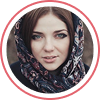
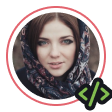
css on the intro, more html on the projects

diff --git a/index.html b/index.html
@@ -18,41 +18,79 @@
     <div id="info">
       <header>
         <img src="assets/images/user.png" alt="Foto de perfil">
-        <p>Hello World! Meu nome é Martina Santos e sou</p>
-        <h1>Desenvolvedora Fullstack</h1>
-        <p>Transformo necessidades em aplicações reais, evolventes e funcionais. Desenvolvo sistemas através da minha paixão pela tecnologia, contribuindo com soluções inovadoras e eficazes para desafios complexos.</p>
+        <p class="helo-info subtitle">Hello World! Meu nome é <span>Martina Santos</span> e sou</p>
+        <h1 class="title-lg">Desenvolvedora Fullstack</h1>
+        <p class="description-info text-sm">Transformo necessidades em aplicações reais, evolventes e funcionais. Desenvolvo sistemas através da minha paixão pela tecnologia, contribuindo com soluções inovadoras e eficazes para desafios complexos.</p>
       </header>
       <div id="skills">
         <div class="content-skills">
           <img src="assets/icons/github.svg" alt="Logo do GitHub">
-          <span>GitHub</span>
+          <span class="text-md">GitHub</span>
         </div>
         <div class="content-skills">
           <img src="assets/icons/html.svg" alt="Logo do HTML">
-          <span>HTML</span>
+          <span class="text-md">HTML</span>
         </div>
         <div class="content-skills">
           <img src="assets/icons/css.svg" alt="Logo do CSS">
-          <span>CSS</span>
+          <span class="text-md">CSS</span>
         </div>
         <div class="content-skills">
           <img src="assets/icons/javascript.svg" alt="Logo do JavaScript">
-          <span>JavaScript</span>
+          <span class="text-md">JavaScript</span>
         </div>
         <div class="content-skills">
           <img src="assets/icons/react.svg" alt="Logo do React">
-          <span>React</span>
+          <span class="text-md">React</span>
         </div>
         <div class="content-skills">
           <img src="assets/icons/node-js.svg" alt="Logo do Node.js">
-          <span>Node.js</span>
+          <span class="text-md">Node.js</span>
         </div>
       </div>
     </div>
-    <img src="assets/icons/caret-double-down.svg" alt="Duas setinhas apontando para baixo">
+    <img id="double-down" src="assets/icons/caret-double-down.svg" alt="Duas setinhas apontando para baixo">
   </section>
 
-  <section id="projects-box"></section>
+  <section id="projects-box">
+    <div id="text-projects">
+      <p class="subtitle">Meu trabalho</p>
+      <h2 class="title-md">Veja os projetos em destaque</h2>
+    </div>
+    <div id="grid-projects">
+      <div class="project">
+        <img src="assets/images/Thumbnail_Project-01.png" alt="Projeto 1 do portfolio">
+        <h3>Travelgram</h3>
+        <p>Rede social onde as pessoas mostram os registros de suas viagens pelo mundo</p>
+      </div>
+      <div class="project">
+        <img src="assets/images/Thumbnail_Project-02.png" alt="Projeto 2 do portfolio">
+        <h3>Tech News</h3>
+        <p>Homepage de um portal de notícias sobre a área de tecnologia</p>
+      </div>
+      <div class="project">
+        <img src="assets/images/Thumbnail_Project-03.png" alt="Projeto 3 do portfolio">
+        <h3>Página de receita</h3>
+        <p>Página com o passo a passo de uma receita para cupcakes</p>
+      </div>
+      <div class="project">
+        <img src="assets/images/Thumbnail_Project-04.png" alt="Projeto 4 do portfolio">
+        <h3>Zingen</h3>
+        <p>Landing Page completa e responsiva de um aplicativo de Karaokê</p>
+      </div>
+      <div class="project">
+        <img src="assets/images/Thumbnail_Project-05.png" alt="Projeto 5 do portfolio">
+        <h3>Refund</h3>
+        <p>Um sistema para pedido e acompanhamento de reembolso </p>
+      </div>
+      <div class="project">
+        <img src="assets/images/Thumbnail_Project-06.png" alt="Projeto 6 do portfolio">
+        <h3>Página de turismo</h3>
+        <p>Página com as principais informações para quem quer viajar para Busan</p>
+      </div>
+      
+    </div>
+  </section>
   <section id="services-box"></section>
   <section id="contact-box"></section>
   

diff --git a/styles/intro.css b/styles/intro.css
@@ -1,0 +1,63 @@
+#intro-box { 
+  background: url(../assets/images/bg-intro.png) no-repeat center/cover;
+  padding: 120px 163px 57px;
+}
+
+#info { 
+  max-width: 1040px;
+  margin-inline: auto;
+
+  header {
+    max-width: 680px;
+    margin-inline: auto;
+    text-align: center;
+
+    img {
+      margin-bottom: 56px;
+      object-fit: cover;
+
+    }
+  }
+}
+
+.helo-info {
+  margin-bottom: 8px;
+  span {
+    color: var(--red);
+  }
+}
+
+.description-info {
+  margin-top: 20px;
+}
+
+
+#skills {
+  max-width: 745px;
+  margin-top: 80px;
+  margin-inline: auto;
+
+  display: flex;
+  align-items: center;
+  justify-content: center;
+  gap: 16px;
+
+}
+
+.content-skills {
+  display: flex;
+  align-items: center;
+  gap: 8px;
+
+  padding: 8px 16px;
+
+  background-color: var(--gray-300);
+  border-radius: 999px;
+}
+
+#double-down {
+  display: flex;
+  margin: 94px auto 0;
+  
+  
+}

diff --git a/styles/utility.css b/styles/utility.css
@@ -1,0 +1,25 @@
+.title-lg { 
+  font: var(--title-lg);
+  color: var(--gray-600);
+}
+
+.title-md {
+  font: var(--title-md);
+  color: var(--gray-600);
+}
+
+.subtitle { 
+  font: var(--subtitle);
+  color: var(--gray-500);
+}
+
+.text-md {
+  font: var(--text-md);
+  color: var(--gray-500);
+}
+
+.text-sm {
+  font: var(--text-sm);
+  color: var(--gray-400);
+}
+

diff --git a/styles/project.css b/styles/project.css
@@ -1,0 +1,16 @@
+#projects-box { 
+  padding: 72px 163px 144px;
+}
+
+#text-projects {
+  text-align: center;
+  
+  p {
+    color: var(--red);
+    margin-bottom: 8px;
+  }
+
+  h2 {
+    margin-bottom: 56px;
+  }
+}

diff --git a/styles/styles.css b/styles/styles.css
@@ -1,2 +1,4 @@
 @import url(global.css);
 @import url(utility.css);
+@import url(intro.css);
+@import url(project.css);

diff --git a/styles/global.css b/styles/global.css
@@ -39,5 +39,5 @@
 
 /* global css */
 body {
-  background-color: var(--gray-100);
+  background-color: #16181d;
 }
